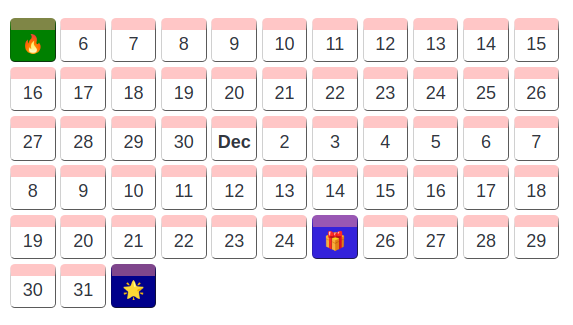
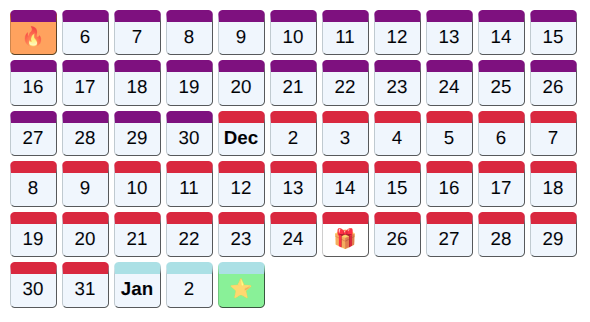
Added coloured blocks for different months

diff --git a/src/event-calendar.css b/src/event-calendar.css
@@ -17,6 +17,54 @@
   background-color: aliceblue;
 }
 
+.event-calendar .group.month-0 {
+  border-top: 10px solid rgb(176, 224, 230); /* January - icy blue */
+}
+
+.event-calendar .group.month-1 {
+  border-top: 10px solid rgb(173, 216, 230); /* February - pale winter blue */
+}
+
+.event-calendar .group.month-2 {
+  border-top: 10px solid rgb(144, 238, 144); /* March - early spring green */
+}
+
+.event-calendar .group.month-3 {
+  border-top: 10px solid rgb(60, 179, 113); /* April - fresh growth green */
+}
+
+.event-calendar .group.month-4 {
+  border-top: 10px solid rgb(255, 182, 193); /* May - soft blossom pink */
+}
+
+.event-calendar .group.month-5 {
+  border-top: 10px solid rgb(255, 160, 122); /* June - warm peach */
+}
+
+.event-calendar .group.month-6 {
+  border-top: 10px solid rgb(255, 0, 183); /* July - deep pink */
+}
+
+.event-calendar .group.month-7 {
+  border-top: 10px solid rgb(255, 38, 0); /* August - hot red-orange */
+}
+
+.event-calendar .group.month-8 {
+  border-top: 10px solid rgb(255, 215, 0); /* September - golden transition */
+}
+
+.event-calendar .group.month-9 {
+  border-top: 10px solid rgb(210, 105, 30); /* October - autumn brown/orange */
+}
+
+.event-calendar .group.month-10 {
+  border-top: 10px solid rgb(128, 0, 128); /* November - deep purple */
+}
+
+.event-calendar .group.month-11 {
+  border-top: 10px solid rgb(220, 20, 60); /* December - festive red */
+}
+
 .event-calendar .group.highlight {
   border-top: 10px solid rgba(255, 223, 65, 1);
 }

diff --git a/src/Calendar/Abstract/GroupRenderer.ts b/src/Calendar/Abstract/GroupRenderer.ts
@@ -9,12 +9,14 @@ export default abstract class GroupRenderer {
 
   protected abstract renderDateAsIcon(
     eventDate: Date,
-    groupIndex: number
+    groupIndex: number,
   ): HTMLSpanElement;
 
   constructor(group: Event[], groupDate: Date, groupIndex: number) {
+    const month = groupDate.getMonth();
+
     this.container = document.createElement("div");
-    this.container.className = "group";
+    this.container.className = `group month-${month}`;
     this.group = group;
     this.groupDate = groupDate;
     this.groupIndex = groupIndex;

diff --git a/README.md b/README.md
@@ -6,6 +6,7 @@ It creates a calendar view of events that have been specified using the [YAML](h
 
 - Organises events into "groupings"; you can group events by **day**, **week**, or **month**
 - Focus is on readability and simplicity of content, which is why the **YAML** is simple in structure
+- Hover over a calendar tile to see event information
 
 ###### Example Day view
 
@@ -38,17 +39,21 @@ Create a fenced block with the **codetype** `joplin-plugin-event-calendar`
 Events are specified using the YAML syntax, with the following keys:
 
 ### group:
+
 > Sets the grouping for the view
-> - _**optional**_ 
+>
+> - _**optional**_
 > - **default** `day`
 > - **accepts** : `day`, `week`, `month`, `d`, `w`, `m`
 
 ### events:
+
 > Each individual event is a list with its own properties
 >
 > > **date:**
-> > 
+> >
 > > The date of the event
+> >
 > > - **required**
 > > - **accepts** : _yyyy-mm-dd_ or _mm-dd-yyyy_
 >
@@ -61,19 +66,22 @@ Events are specified using the YAML syntax, with the following keys:
 >
 > > **title**
 > >
-> > The title or heading of the event 
+> > The title or heading of the event
+> >
 > > - **required**
 > > - **accepts** : _string_
 >
 > > **text:**
 > >
 > > A more detailed description of the event
+> >
 > > - **optional**
 > > - **accepts** : _string_
 >
 > > **bgColor:**
 > >
 > > The background color for the event container
+> >
 > > - **optional**
 > > - **default** : random
 > > - **accepts** : _string_